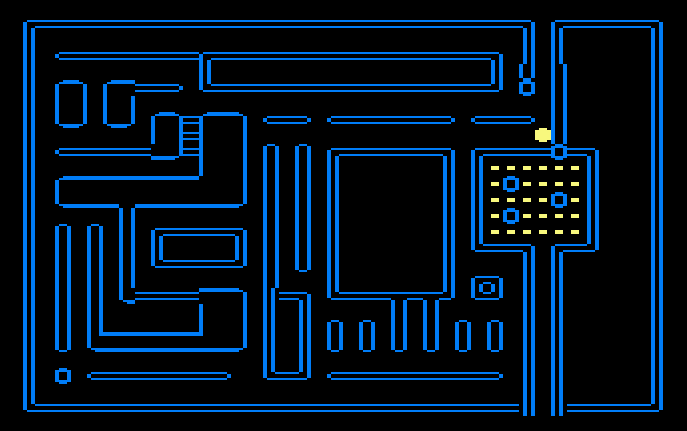
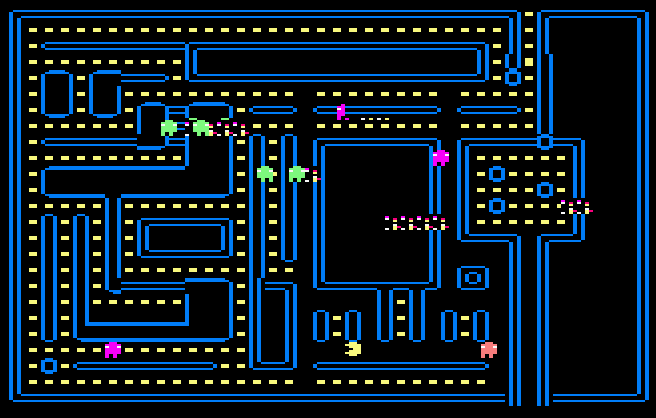
JDVPA 8 ça bouge

diff --git a/JDVPA#8_test/ghost.c b/JDVPA#8_test/ghost.c
@@ -1,4 +1,7 @@
 #include "ghost.h"
+#include "player.h"
+//#include "labypac_map.h"
+#include "laby_data.h"
 
 s_ghost ghost[4];
 

diff --git a/JDVPA#8_test/README.md b/JDVPA#8_test/README.md
@@ -7,4 +7,4 @@ __main.c jdvpa8.dsk__
 
 ![JDVPA8.dsk.png](JDVPA8.dsk.png)
 
-Wip.
+wip (ça fait des trucs, mais c'est pas encore ça, faut adapter je pense)
